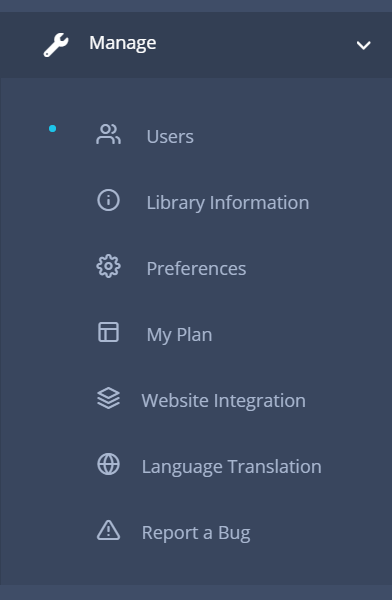
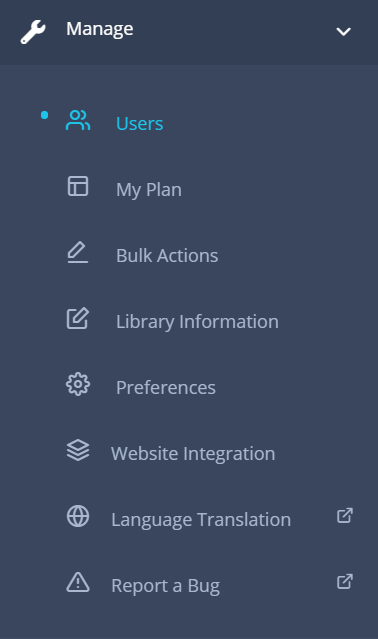
Modified some images on barcode labels, users, fees, reports and bulk actions

diff --git a/docs/users.md b/docs/users.md
@@ -17,13 +17,13 @@ To view list admin or stuff users, please follow the below steps:
 
 	![Users main page](img/users-main-page.png)
 
-* If you click on the `View` link next to any user then you can see all the information of that specific user like below.
+* If you click on the `View` icon next to any user then you can see all the information of that specific user like below.
 
 	![Users user view page](img/users-view-page.png)
 
 * Here you can also see the group information of that user, if you click on the view icon from the **Group Memberships** table.
 
-	![Users view group info](img/users-view-group-info.png)
+	![Users view group info](img/users-group-info.png)
 
 * Now you can also view all the related members of that group.
 
@@ -47,7 +47,7 @@ To add a user, please follow the below steps:
 
 * Click on `Submit` button and a user will be invited to join your library and the status for this new user will be **Invited**.
 
-	![Users main page](img/users-main-page2.png)
+	![Users main page](img/user-with-invited-status.png)
 
 * Now the user needs to follow the invitation email and join the library. 
 
@@ -59,9 +59,9 @@ When you will create a new user an invitation email will automatically send to t
 To do so, please follow the below steps:
 
 * Please go to the `Users` section.
-* Locate that user whom you want to send the invitation email again from users section and click on the `Re-send Invite` link on the right to that user.
+* Locate that user whom you want to send the invitation email again from users section and click on the `Re-send Invite` button on the right to that user.
 
-	![Users resend invite link](img/users-resend-invite-link.png)
+	![Users resend invite link](img/user-resend-invite-button.png)
 
 * Click on it and the invitation email will be send to the users email account for joining your library.
 * If an user click on the joining request, then that user will be able to join the library.
@@ -74,7 +74,7 @@ You can change the groups or roles of a user by setting permissions for the user
 
 To set permissions, please follow the below steps:
 
-* Click on `Permissions` link from the users section.
+* Click on `Change Permissions` icon from the users section.
 * A form will be appeared like below.
 
 	![Users change permissions page](img/users-change-permissions-page.png)
@@ -89,7 +89,7 @@ You can also remove the permissions that you have given to the users for your li
 
 To remove the permissions, please follow the below steps:
 
-* Click on `Permissions` link from the users section.
+* Click on `Change Permissions` icon like before from the users section.
 * Now the `Change Permissions` form will be appeared same as the **Add / Update Permission** section mentioned above.
 * In the `Change Permissions` form you have to uncheck the gruops or roles options and click on **Save** button.
 

diff --git a/docs/bulk-actions.md b/docs/bulk-actions.md
@@ -5,7 +5,7 @@ Bulk actions method is used to update or delete your book, book copy or member r
 To do bulk actions, please follow the below steps:
 
 * At first login to your library.
-* Please go to the `Dashboard -> Others -> Bulk Actions` option from the dropdown menu.
+* Please go to the `Dashboard -> Manage -> Bulk Actions` option from the dropdown menu.
 
     ![Bulk Actions dropdown menu](img/bulk-actions-dropdown-menu.png)
 
@@ -244,9 +244,6 @@ To create a bulk action for changing media copy's branch information, please fol
     ![Bulk Actions select review copy branch info](img/bulk-actions-review-copy-branch-info.png)
 
 * Click on `Confirm` button and your bulk actions will be saved.
-
-    ![Bulk Actions created copy branch info](img/bulk-actions-created-copy-branch-info.png)
-
 * At last click on the `Process this action?` button for processing your actions.
 
 
@@ -406,9 +403,6 @@ To create a bulk action for changing member group, please follow the bellow step
     ![Bulk Actions review member group](img/bulk-actions-review-member-group.png)    
 
 * Click on `Confirm` button and your bulk actions will be saved.
-
-    ![Bulk Actions created by member group](img/bulk-actions-created-by-member-group.png) 
-
 * At last click on the `Process this action?` button and your actions will be processed.
 
 ### Change Member's Booking Quota

diff --git a/docs/reports.md b/docs/reports.md
@@ -1,6 +1,6 @@
 # Reports
 
-This is the section where you can view all the reports of your library depending on varoius topics such as catalog, circulation, member, overdue and others within a date range. You can find different filtering options on each report. Also you can print them out or export them per your need. 
+This is the section where you can view all the reports of your library depending on various topics such as catalog, circulation, member, overdue and others within a date range. You can find different filtering options on each report. Also you can print them out or export them per your need. 
 
 To access this section, please follow the below steps:
 

diff --git a/docs/fees-payments.md b/docs/fees-payments.md
@@ -30,7 +30,7 @@ Please complete the following easy steps to setup your library. It should not ta
 
 * Then click on the `Transactions` button and a page will be appeared like below.
 
-	![Fees & Payments transactions module](img/fees-payments-transactions-module.png)
+	![Fees & Payments transactions module](img/fees-payments-transactions.png)
 
 * Here you can view all the transection details of your library members.
 * Now from the top of this section please click on the `Fees & Fines Settings` button.

diff --git a/docs/barcode-labels.md b/docs/barcode-labels.md
@@ -209,8 +209,7 @@ To do so, please follow the below steps:
 
 * An edit copy form will be appeared like below.
 
-    ![Barcode Labels media copy edit form](img/media-copy-edit-form1.png)
-    ![Barcode Labels media copy add form](img/media-copy-add-form2.png)
+    ![Barcode Labels media copy edit form](img/media-copy-edit-form.png)
 
 * Now in the edit copy form replace the Librarika generated accession number with your own barcode number on the Accession No field.    
 
